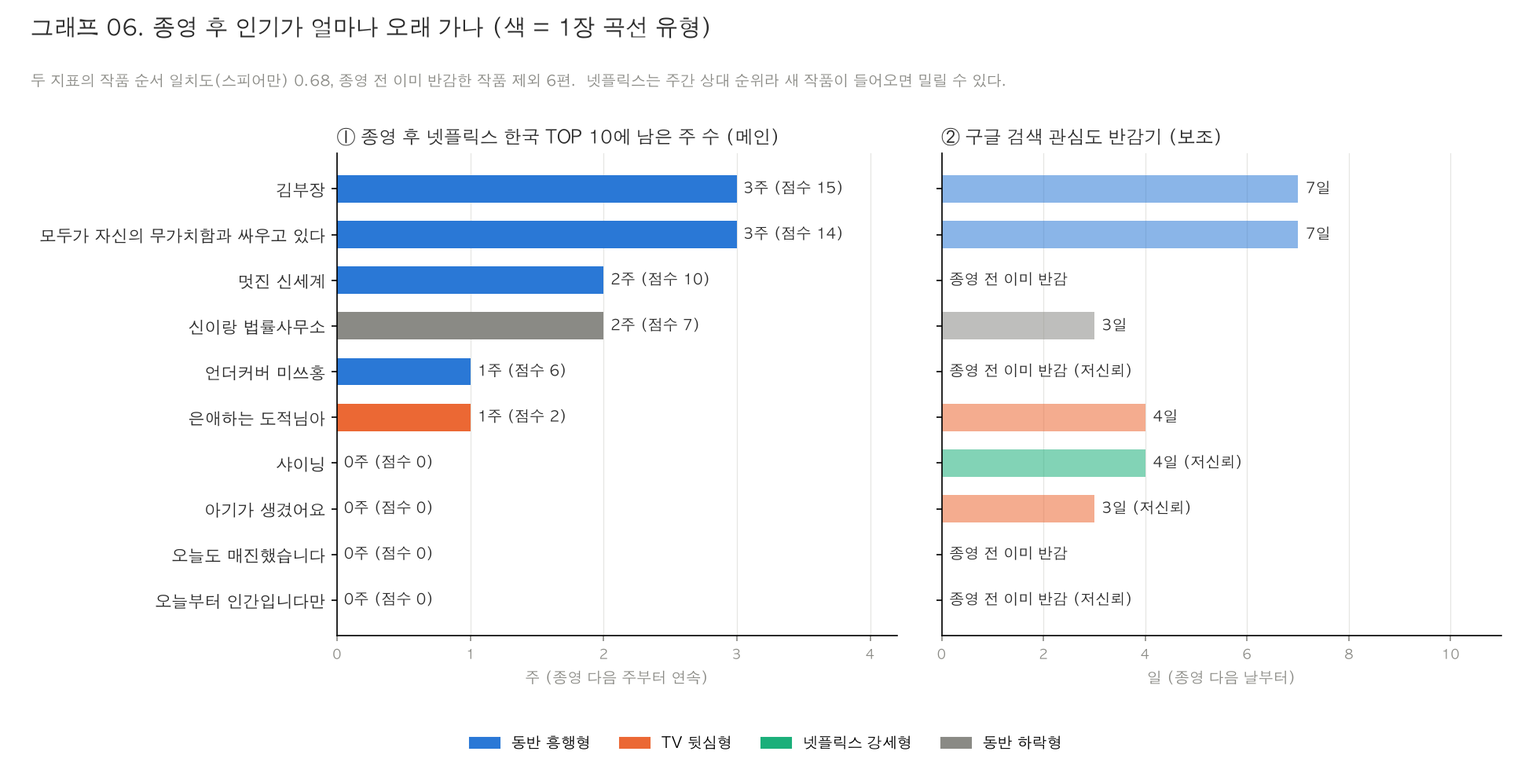
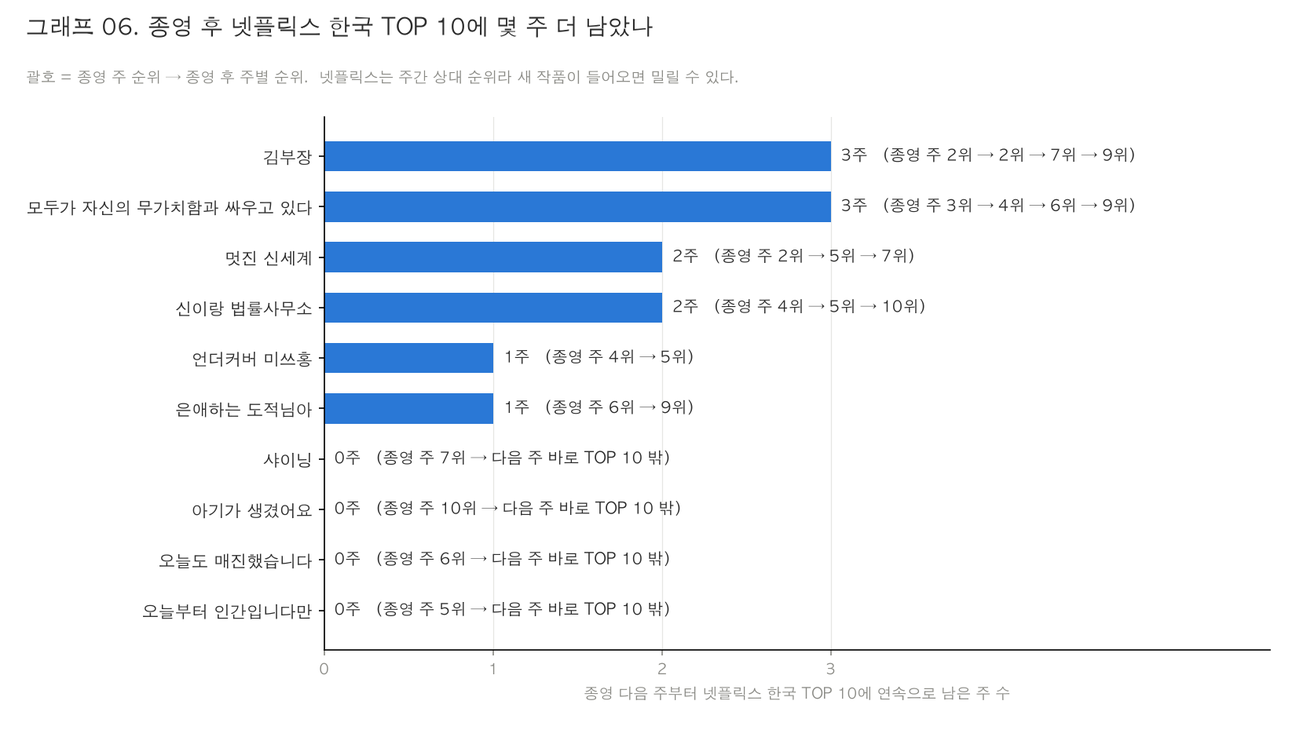
그래프 01 대표작 변경, 그래프 06 막대그래프로 변경, 그래프 12 추가, 표기 정리

diff --git a/src/ch3_netflix.py b/src/ch3_netflix.py
@@ -47,48 +47,35 @@ print(f"[교차 검증] 넷플릭스 잔존 vs 구글 반감기 순위 일치도
       f"(종영 전 반감 작품 제외, {len(both)}편)")
 res.to_csv("data/processed/ch3_netflix.csv", index=False)
 
-# ---------- 그래프 06: 넷플릭스 잔존(메인) | 구글 반감기(보조), 같은 작품 순서 ----------
-COLORS = {"동반 흥행형": "#2a78d6", "TV 뒷심형": "#eb6834", "넷플릭스 강세형": "#1baf7a", "동반 하락형": "#8a8a85"}
-INK, MUTED = "#2b2b2b", "#8a8a85"
-order = res.iloc[::-1]                                      # 위에서부터 오래 남은 순
-fig, (a1, a2) = plt.subplots(1, 2, figsize=(13, 6.5), sharey=True, gridspec_kw={"wspace": 0.08})
+# ---------- 그래프 06: 종영 후 넷플릭스 한국 TOP 10에 남은 주 수 ----------
+INK, MUTED, BAR = "#2b2b2b", "#8a8a85", "#2a78d6"
+order = res.iloc[::-1]                                      # 그림에서 위쪽 = 오래 남은 작품
+fig, ax = plt.subplots(figsize=(11, 6.2))
 y = range(len(order))
-a1.barh(y, order["종영 후 잔존(주)"], color=order["quadrant"].map(COLORS), height=0.6)
+ax.barh(y, order["종영 후 잔존(주)"], color=BAR, height=0.6)
 for i, (_, r) in zip(y, order.iterrows()):
-    a1.text(r["종영 후 잔존(주)"] + 0.05, i, f"{r['종영 후 잔존(주)']}주 (점수 {r['잔존 점수']})",
-            va="center", fontsize=9, color=INK)
-a1.set_yticks(list(y), order["title"], fontsize=10, color=INK)
-a1.set_xlim(0, res["종영 후 잔존(주)"].max() + 1.2)
-a1.set_xticks(range(0, int(res["종영 후 잔존(주)"].max()) + 2))
-a1.set_title("① 종영 후 넷플릭스 한국 TOP 10에 남은 주 수 (메인)", loc="left", fontsize=11, color=INK)
-a1.set_xlabel("주 (종영 다음 주부터 연속)", fontsize=9, color=MUTED)
-
-gv = order["반감기(일)"].where(~order["종영 전 반감"])
-a2.barh(y, gv.fillna(0), color=order["quadrant"].map(COLORS), height=0.6, alpha=0.55)
-for i, (_, r) in zip(y, order.iterrows()):
-    if r["종영 전 반감"]:
-        txt = "종영 전 이미 반감"
+    title, last = r["title"], int(last_week[r["title"]])
+    ranks = nf[nf["title"] == title].set_index("week_no")["weekly_rank"]
+    fin = ranks.get(last)
+    fin_txt = f"종영 주 {int(fin)}위" if pd.notna(fin) else "종영 주 TOP 10 밖"
+    after = [f"{int(ranks[last + k])}위" for k in range(1, r["종영 후 잔존(주)"] + 1)]
+    if after:
+        txt = f"{r['종영 후 잔존(주)']}주   ({fin_txt} → " + " → ".join(after) + ")"
     else:
-        txt = f"{int(r['반감기(일)'])}일"
-    if r["저신뢰"]:
-        txt += " (저신뢰)"
-    a2.text((0 if r["종영 전 반감"] else r["반감기(일)"]) + 0.15, i, txt, va="center", fontsize=9, color=INK)
-a2.set_xlim(0, res["반감기(일)"].max() + 4)
-a2.set_title("② 구글 검색 관심도 반감기 (보조)", loc="left", fontsize=11, color=INK)
-a2.set_xlabel("일 (종영 다음 날부터)", fontsize=9, color=MUTED)
-
-for ax in (a1, a2):
-    ax.tick_params(axis="x", labelsize=8, colors=MUTED)
-    ax.grid(axis="x", color="#e6e6e3", lw=0.6)
-    ax.set_axisbelow(True)
-    for sp in ("top", "right"):
-        ax.spines[sp].set_visible(False)
-handles = [plt.Rectangle((0, 0), 1, 1, color=c) for c in COLORS.values()]
-fig.legend(handles, COLORS.keys(), loc="lower center", ncol=4, frameon=False, fontsize=9, bbox_to_anchor=(0.5, 0.0))
-fig.suptitle("그래프 06. 종영 후 인기가 얼마나 오래 가나 (색 = 1장 곡선 유형)", x=0.02, ha="left", fontsize=14, color=INK)
-fig.text(0.02, 0.905, f"두 지표의 작품 순서 일치도(스피어만) {rho:.2f}, 종영 전 이미 반감한 작품 제외 {len(both)}편.  "
-         "넷플릭스는 주간 상대 순위라 새 작품이 들어오면 밀릴 수 있다.",
+        txt = f"0주   ({fin_txt} → 다음 주 바로 TOP 10 밖)"
+    ax.text(r["종영 후 잔존(주)"] + 0.06, i, txt, va="center", fontsize=9.5, color=INK)
+ax.set_yticks(list(y), order["title"], fontsize=10, color=INK)
+ax.set_xlim(0, res["종영 후 잔존(주)"].max() + 2.6)
+ax.set_xticks(range(0, int(res["종영 후 잔존(주)"].max()) + 1))
+ax.set_xlabel("종영 다음 주부터 넷플릭스 한국 TOP 10에 연속으로 남은 주 수", fontsize=9, color=MUTED)
+ax.tick_params(axis="x", labelsize=9, colors=MUTED)
+ax.grid(axis="x", color="#e6e6e3", lw=0.6)
+ax.set_axisbelow(True)
+for sp in ("top", "right"):
+    ax.spines[sp].set_visible(False)
+fig.suptitle("그래프 06. 종영 후 넷플릭스 한국 TOP 10에 몇 주 더 남았나", x=0.02, ha="left", fontsize=14, color=INK)
+fig.text(0.02, 0.905, "괄호 = 종영 주 순위 → 종영 후 주별 순위.  넷플릭스는 주간 상대 순위라 새 작품이 들어오면 밀릴 수 있다.",
          fontsize=9, color=MUTED, va="top")
-fig.subplots_adjust(top=0.80, bottom=0.17, left=0.22, right=0.98)
+fig.subplots_adjust(top=0.84, bottom=0.11, left=0.25, right=0.98)
 fig.savefig("images/06_after_finale.png", dpi=150)
 print("\n저장: images/06_after_finale.png")

diff --git a/src/graph12_gap_weekly.py b/src/graph12_gap_weekly.py
@@ -1,0 +1,52 @@
+"""그래프 12: 2장 보완 — 작품별 주간 시청률과 주간 화제성(라코이 버즈)
+그래프 03의 순위 뒤에 있는 실제 흐름을 작품마다 보여 준다. 먼저 ch1_curves.py, ch2_gap.py를 실행해 둘 것"""
+import os
+import matplotlib.pyplot as plt
+import pandas as pd
+
+plt.rcParams["font.family"] = "AppleGothic"
+plt.rcParams["axes.unicode_minus"] = False
+os.makedirs("images", exist_ok=True)
+
+tv = pd.read_csv("data/processed/tv_weekly.csv")
+rc = pd.read_csv("data/processed/racoi_weekly.csv")
+gap = pd.read_csv("data/processed/ch2_gap.csv", index_col=0).sort_values("시청률")   # 시청률 1위부터
+
+TV_C, BUZZ_C, INK, MUTED, UP, DOWN = "#2a78d6", "#9fd8bf", "#2b2b2b", "#8a8a85", "#2a78d6", "#eb6834"
+fig, axes = plt.subplots(2, 5, figsize=(17, 7.6))
+for ax, (title, g) in zip(axes.flat, gap.iterrows()):
+    b = rc[rc["title"] == title].set_index("week_no")["buzz"]
+    t = tv[tv["title"] == title].set_index("week_no")["rating"]
+    ax.bar(b.index, b.values, color=BUZZ_C, width=0.7, zorder=2)              # 막대 = 주간 화제성
+    top = b.max()
+    if top > 3 * b.median():                      # 한 주 급등(신이랑 6주차)이 다른 주를 납작하게 만들지 않게 축을 자름
+        top = b.nlargest(2).iloc[-1] * 1.6
+        w = b.idxmax()
+        ax.text(w, top * 0.97, f"{int(b.max()):,}↑\n댓글만 급등\n(4-2)", ha="center", va="top",
+                fontsize=7, color=INK, zorder=4, bbox=dict(fc="white", ec="none", alpha=0.85, pad=1))
+    ax.set_ylim(0, top * 1.25 if top == b.max() else top)
+    ax.ticklabel_format(axis="y", style="plain")
+    ax.tick_params(axis="y", labelsize=7, colors="#4f9c7a")
+    ax2 = ax.twinx()
+    ax2.plot(t.index, t.values, color=TV_C, lw=2.2, marker="o", ms=4, zorder=3)  # 선 = 주간 시청률
+    ax2.set_ylim(0, t.max() * 1.3)
+    ax2.tick_params(axis="y", labelsize=7, colors=TV_C)
+    ax.set_xticks(range(1, int(max(b.index.max(), t.index.max())) + 1))
+    ax.tick_params(axis="x", labelsize=7, colors=MUTED)
+    for a in (ax, ax2):
+        a.spines["top"].set_visible(False)
+    k = int(g["갭"])
+    color = UP if k >= 3 else DOWN if k <= -3 else INK
+    name = title if len(title) <= 10 else title[:9] + "…"
+    ax.set_title(f"{name}\n시청률 {int(g['시청률'])}위 · 화제성 {int(g['라코이_버즈'])}위 (갭 {k:+d})",
+                 fontsize=10, color=color, loc="left")
+fig.supxlabel("방영 주차", fontsize=9, color=MUTED)
+fig.suptitle("그래프 12. 작품별 주간 시청률(선)과 주간 화제성(막대) — 그래프 03 순위의 실제 흐름",
+             x=0.01, ha="left", fontsize=14, color=INK)
+fig.text(0.01, 0.925, "막대 = 라코이 시청자 버즈(게시글+댓글, 건, 왼쪽 축)  ·  선 = 주간 평균 시청률(%, 오른쪽 축)  ·  "
+         "축 눈금은 작품마다 다르므로 칸끼리는 크기가 아니라 모양을 비교한다(신이랑 6주차 막대는 위가 잘림).  순위는 시청률 = 회차 평균, 화제성 = 방영 주 중앙값.\n"
+         "파란 제목 = 시청률보다 화제성 순위가 3계단 이상 높은 작품, 주황 제목 = 3계단 이상 낮은 작품.",
+         fontsize=9, color=MUTED, va="top")
+fig.subplots_adjust(top=0.80, bottom=0.08, left=0.03, right=0.97, hspace=0.62, wspace=0.42)
+fig.savefig("images/12_gap_weekly.png", dpi=150)
+print("저장: images/12_gap_weekly.png")

diff --git a/src/ch3_halflife.py b/src/ch3_halflife.py
@@ -100,7 +100,7 @@ for ax, (_, r) in zip(axes.flat, order.iterrows()):
         ev = (pd.Timestamp(EVENTS[r["title"]][0]) - d["last_air"]).days
         ax.axvspan(ev - 0.5, ev + 1.5, color="#eb6834", alpha=0.15, lw=0)
         ax.text(ev + 3, 115, EVENTS[r["title"]][1], fontsize=8, color=MUTED, va="center")
-    title = r["title"] + (" (저신뢰)" if r["저신뢰"] else "")
+    title = r["title"] + (" *" if r["저신뢰"] else "")
     ax.set_title(f"{title}\n{r['quadrant']}", fontsize=10, color=INK, loc="left")
     ax.set_xlim(-30, 60)
     ax.set_ylim(0, 125)
@@ -115,8 +115,9 @@ for ax in axes[:, 0]:
     ax.set_ylabel("검색 관심도\n(방영 중 최고점=100)", fontsize=9, color=INK)
 fig.suptitle("그래프 05. 종영 후 검색 관심도가 식는 속도 (구글 트렌드, 대한민국)", x=0.01, ha="left", fontsize=14, color=INK)
 fig.text(0.01, 0.935, "점선(가로): 최고점의 50%  ·  점선(세로): 종영일  ·  흰 원: 반감기(7일 이동평균이 최고점의 50% 아래로 3일 연속 내려간 첫날)  ·  최고점 구간: 1화 ~ 최종화 3일 뒤\n"
-         "검색 관심이 줄어드는 속도이며, 실제 시청자가 절반으로 줄어든 시점을 뜻하지 않는다. 일별 검색량의 요일 변동을 없애려고 7일 이동평균(가운데 정렬)을 썼다.",
+         "검색 관심이 줄어드는 속도이며, 실제 시청자가 절반으로 줄어든 시점을 뜻하지 않는다. 일별 검색량의 요일 변동을 없애려고 7일 이동평균(가운데 정렬)을 썼다.\n"
+         "* 구글 검색량이 적어 방영 중 0으로 표시된 날이 40%를 넘는 작품. 곡선 모양은 참고용으로 본다.",
          fontsize=9, color=MUTED, va="top")
-fig.subplots_adjust(top=0.80, bottom=0.08, left=0.07, right=0.99, hspace=0.55, wspace=0.12)
+fig.subplots_adjust(top=0.78, bottom=0.08, left=0.07, right=0.99, hspace=0.55, wspace=0.12)
 fig.savefig("images/05_decay_curves.png", dpi=150)
 print("저장: images/05_decay_curves.png")

diff --git a/src/graph07_trend_weekday.py b/src/graph07_trend_weekday.py
@@ -39,7 +39,7 @@ for t in dramas.index:
     ad = set(ratings.loc[ratings["title"] == t, "air_date"])
     on, off = r[r.index.isin(ad)].mean(), r[~r.index.isin(ad)].mean()
     low = (r == 0).mean() > 0.4                                    # 방영 중 0인 날 40% 초과 = 저신뢰
-    rows.append((t + (" (저신뢰)" if low else ""), on / off if off > 0 else float("nan")))
+    rows.append((t + (" *" if low else ""), on / off if off > 0 else float("nan")))
 eff = pd.DataFrame(rows, columns=["title", "배수"]).sort_values("배수")
 
 print(f"[{REP}] 방영 기간 평균 {run.mean():.1f}, 이동평균에서 벗어난 정도(표준편차) {resid.std():.1f}")
@@ -83,7 +83,7 @@ ax3.tick_params(axis="y", labelsize=9, colors=INK)
 fig.suptitle("그래프 07. 검색 관심도의 트렌드·주간 반복·노이즈 (구글 트렌드, 대한민국)", x=0.02, ha="left", fontsize=14, color=INK)
 fig.text(0.02, 0.945,
          f"트렌드 = 7일 이동평균(가운데 정렬)  ·  주간 반복 = 방송 요일마다 오르는 패턴  ·  노이즈 = 이동평균에서 벗어난 정도(표준편차 {resid.std():.1f})\n"
-         "검색 관심도는 구글 트렌드 상대값(작품별 최고 날 = 100)이며, 실제 검색 횟수가 아니다.",
+         "검색 관심도는 구글 트렌드 상대값(작품별 최고 날 = 100)이며, 실제 검색 횟수가 아니다.  * 구글 검색량이 적어 방영 중 0인 날이 40%를 넘는 작품(참고용).",
          fontsize=9, color=MUTED, va="top")
 fig.subplots_adjust(top=0.86, bottom=0.07, left=0.08, right=0.97)
 fig.savefig("images/07_trend_weekday.png", dpi=150)

diff --git a/src/graph01_triple.py b/src/graph01_triple.py
@@ -7,7 +7,7 @@ plt.rcParams["font.family"] = "AppleGothic"
 plt.rcParams["axes.unicode_minus"] = False
 os.makedirs("images", exist_ok=True)
 
-REP = "은애하는 도적님아"          # 대표작 (I1의 TV 뒷심형 사례)
+REP = "멋진 신세계"                # 대표작 (I1 사례: 넷플릭스 → 화제성 → TV 순으로 정점)
 
 dramas = pd.read_csv("data/dramas.csv", parse_dates=["first_air", "last_air"]).set_index("title")
 tv = pd.read_csv("data/processed/tv_weekly.csv")

diff --git a/REPORT.md b/REPORT.md
@@ -75,7 +75,7 @@
 | 시청률 | 결측 0건. 닐슨코리아 공식 TOP 자료와 대조한 104회차 모두 일치. 나머지 26회차는 공식 자료에 없어 회차 단위로는 대조하지 못했고, 전 회차가 들어가는 라코이의 닐슨 주간 시청률(65주) 대조로 간접 확인했다(차이 평균 0.14%p. 라코이는 주 단위로 집계한 값이고 이 분석은 회차 시청률을 주별로 단순 평균했기 때문에 생기는 차이로 보인다) |
 | 라코이 | 10편 모두 1주차부터 마지막 방영 주까지 빠짐없이 있음. 오늘부터 인간입니다만의 빈 주 1개는 설 연휴 결방 주 |
 | 넷플릭스 | 10편 모두 1주 이상 TOP 10 진입. 금·토 첫 방송 작품은 1주차 공개일이 1~2일뿐이라 1주차 순위가 불리 |
-| 구글 | 10편 모두 일별 값 존재. 언더커버 미쓰홍의 중복 주제는 전 기간 0(검색이 나뉘어 잡히지 않음). 방영 중 0인 날이 40%를 넘는 저신뢰 작품 4편 |
+| 구글 | 10편 모두 일별 값 존재. 언더커버 미쓰홍의 중복 주제는 전 기간 0(검색이 나뉘어 잡히지 않음). 방영 중 0인 날이 40%를 넘는 검색량 적은 작품 4편(이하 \* 표시) |
 | 펀덱스 | 32주 중 21주 확보. 1·4·10·12·15·16·17·21·24·31·32주차는 순위 기사를 찾지 못함 |
 | 네이버 | 결측 0건. 일상어 제목 4편은 방영 전·종영 후에도 값이 남음(4-3) |
 
@@ -88,7 +88,7 @@
 | 라코이 첫 주·마지막 주 | 주 중간에 시작·종영해 반응이 덜 쌓임 | 그대로 두되, 작품 간 비교는 방영 주 **중앙값**으로 해 주 수 차이를 줄임 |
 | 라코이 한 주 급등 | 한 주가 다른 주의 수 배 | 기사로 원인 확인(아래 표). 작품 간 비교는 주 **중앙값**으로 해 한 주가 전체를 좌우하지 않게 하고, 평균으로 계산한 결과는 민감도로 함께 제시 |
 | 구글 `<1` 표기 | 0보다 크지만 1 미만 | 0.5로 바꿈 |
-| 구글 방영 중 0인 날 40% 초과 | 검색이 기준보다 적은 날은 0으로 표시됨 | **저신뢰** 표시 (오늘부터 인간입니다만, 언더커버 미쓰홍, 아기가 생겼어요, 샤이닝) |
+| 구글 방영 중 0인 날 40% 초과 | 검색이 기준보다 적은 날은 0으로 표시됨 | **\*** 표시, 구글 기반 값은 참고용 (오늘부터 인간입니다만, 언더커버 미쓰홍, 아기가 생겼어요, 샤이닝) |
 | 방송과 무관해 보이는 하루짜리 급등 (구글) | 네이버 뉴스 기간 검색 + 같은 날 네이버 검색량 변화로 확인 | 아래 표 |
 
 | 급등 | 확인한 내용 | 판단 |
@@ -103,7 +103,7 @@
 처음에는 검색량을 화제성 지표로 쓰려 했다. 수집해 보니 두 검색 지표 모두 작품끼리 공정하게 비교하기 어려웠다.
 
 - **네이버 데이터랩 (검색어 방식):** 10편 모두 같은 규칙으로 검색어를 만들었지만, 시청률 0.8~2%인 샤이닝이 13%까지 오른 언더커버 미쓰홍보다 검색량이 50배 넘게 나왔다. 제목이 독특한 작품은 제목만 검색해 규칙에 잘 안 잡히고, 흔한 단어 제목은 "샤이닝 드라마"처럼 덧붙여 검색해 잘 잡히기 때문이다.
-- **구글 트렌드 (주제 방식):** 검색어 문제는 없지만, 검색이 적은 날을 0으로 표시해 10편 중 4편이 방영 중 절반 가까운 날이 0이었다(저신뢰). 한국 검색 점유율이 낮고 분류 방식도 공개되지 않는다.
+- **구글 트렌드 (주제 방식):** 검색어 문제는 없지만, 검색이 적은 날을 0으로 표시해 10편 중 4편이 방영 중 절반 가까운 날이 0이었다(검색량 적음). 한국 검색 점유율이 낮고 분류 방식도 공개되지 않는다.
 
 그래서 화제성 메인 지표를 **라코이 시청자 버즈**로 바꾸었다. 프로그램 단위로 실제 반응 건수를 세기 때문에 검색어 문제와 0값 문제가 없고, 공공기관이 같은 방식으로 모든 채널을 집계한다. 다만 **방영 주에만** 집계되므로, 종영 후 분석(3장)은 넷플릭스 한국 TOP 10 잔존을 메인으로, 구글 반감기를 보조로 썼다. 구글 일별 데이터는 일별 흐름(5-1)에도 썼다.
 
@@ -210,6 +210,10 @@
 - 시청률보다 화제성이 높은 쪽(**샤이닝 +4, 모두가 자신의 무가치함과 싸우고 있다 +3**)은 중앙값·평균 어느 기준에서도 같았다. 오늘부터 인간입니다만은 +3(중앙값)·+2(평균)였다.
 - 반대쪽은 기준에 따라 달랐다. 신이랑 법률사무소는 중앙값 기준 −4지만 평균 기준 0(6주차 댓글 급등 때문), 언더커버 미쓰홍은 −2·−4, 은애하는 도적님아는 −2·−3이었다. "화제성이 낮다"는 결론은 "높다"보다 약하다.
 
+![그래프 12](images/12_gap_weekly.png)
+
+그래프 12는 그래프 03의 순위 뒤에 있는 실제 흐름을 작품마다 보여 준다(막대 = 주간 화제성, 선 = 주간 시청률). 시청률보다 화제성이 높은 모두가 자신의 무가치함과 싸우고 있다·샤이닝은 화제성 막대가 시청률보다 일찍 크게 올랐고, 신이랑 법률사무소는 6주차 한 주(댓글만 급등)를 빼면 화제성이 방영 내내 낮은 수준이었다.
+
 #### Q2-B. 갭이 큰 작품은 어떤 특징이 있을까?
 
 ![그래프 11](images/11_gap_features.png)
@@ -237,6 +241,8 @@
 
 ![그래프 06](images/06_after_finale.png)
 
+그래프 06은 작품마다 종영 후 넷플릭스 한국 TOP 10에 몇 주 더 남았는지와, 종영 주부터 빠질 때까지의 순위 변화를 보여 준다.
+
 **메인 — 넷플릭스 한국 TOP 10 잔존:** 최종화가 들어 있는 주의 다음 주부터 연속으로 TOP 10에 남은 주 수. 주 수가 같으면 잔존 점수(남은 주마다 11 − 순위를 더한 값)로 순서를 가렸다.
 
 **보조 — 구글 검색 관심도 반감기:** 최종화 다음 날부터, 7일 이동평균(가운데 정렬)이 최고점(1화 ~ 최종화 3일 뒤)의 50% 아래로 내려간 뒤 3일 이상 연속 유지되는 첫날까지의 일수. 종영일에 이미 최고점의 50% 아래였던 작품은 "종영 전 반감"으로 따로 표시했다.
@@ -247,12 +253,14 @@
 | 모두가 자신의 무가치함과 싸우고 있다 | 동반 흥행형 | 3 | **3주** | 14 | 7일 |
 | 멋진 신세계 | 동반 흥행형 | 2 | 2주 | 10 | 종영 전 반감 |
 | 신이랑 법률사무소 | 동반 하락형 | 4 | 2주 | 7 | 3일 |
-| 언더커버 미쓰홍 | 동반 흥행형 | 4 | 1주 | 6 | 종영 전 반감 (저신뢰) |
+| 언더커버 미쓰홍 | 동반 흥행형 | 4 | 1주 | 6 | 종영 전 반감 \* |
 | 은애하는 도적님아 | TV 뒷심형 | 6 | 1주 | 2 | 4일 |
-| 샤이닝 | 넷플릭스 강세형 | 7 | 0주 | 0 | 4일 (저신뢰) |
-| 아기가 생겼어요 | TV 뒷심형 | 10 | 0주 | 0 | 3일 (저신뢰) |
+| 샤이닝 | 넷플릭스 강세형 | 7 | 0주 | 0 | 4일 \* |
+| 아기가 생겼어요 | TV 뒷심형 | 10 | 0주 | 0 | 3일 \* |
 | 오늘도 매진했습니다 | TV 뒷심형 | 6 | 0주 | 0 | 종영 전 반감 |
-| 오늘부터 인간입니다만 | TV 뒷심형 | 5 | 0주 | 0 | 종영 전 반감 (저신뢰) |
+| 오늘부터 인간입니다만 | TV 뒷심형 | 5 | 0주 | 0 | 종영 전 반감 \* |
+
+\* 구글 검색량이 적어 방영 중 0인 날이 40%를 넘는 작품(4-2). 구글 반감기는 참고용이다.
 
 넷플릭스 잔존과 구글 반감기의 순서 일치도는 0.68(종영 전 반감 작품 제외 6편)이었다. 서로 다른 두 출처가 "어느 작품이 종영 후 오래 갔는지"에 대해 비슷한 순서를 보였다.
 
@@ -311,20 +319,20 @@
 | 작품 | 주간 반복 세기 | 가장 높은 요일 (효과) | 방송 요일 |
 |---|---|---|---|
 | 은애하는 도적님아 | 0.89 | 일 (+43.4) | 토·일 |
-| 샤이닝 (저신뢰) | 0.84 | 토 (+35.6) | 금 |
+| 샤이닝 \* | 0.84 | 토 (+35.6) | 금 |
 | 모두가 자신의 무가치함과 싸우고 있다 | 0.84 | 일 (+30.8) | 토·일 |
-| 언더커버 미쓰홍 (저신뢰) | 0.75 | 일 (+32.6) | 토·일 |
+| 언더커버 미쓰홍 \* | 0.75 | 일 (+32.6) | 토·일 |
 | 김부장 | 0.74 | 토 (+35.2) | 금·토 |
-| 오늘부터 인간입니다만 (저신뢰) | 0.72 | 토 (+25.8) | 금·토 |
+| 오늘부터 인간입니다만 \* | 0.72 | 토 (+25.8) | 금·토 |
 | 신이랑 법률사무소 | 0.67 | 토 (+24.1) | 금·토 |
 | 오늘도 매진했습니다 | 0.67 | 수 (+39.5) | 수·목 |
-| 아기가 생겼어요 (저신뢰) | 0.43 | 일 (+26.8) | 토·일 |
+| 아기가 생겼어요 \* | 0.43 | 일 (+26.8) | 토·일 |
 | 멋진 신세계 | 0.32 | 일 (+16.0) | 금·토 |
 
-- (저신뢰) 4편은 방영 중 검색량 0인 날이 40%를 넘어(4-2), 주간 반복 세기와 요일 효과는 참고용이다.
+- \* 표시 4편은 구글 검색량이 적어 방영 중 0인 날이 40%를 넘으므로(4-2), 주간 반복 세기와 요일 효과는 참고용이다.
 - 10편 모두 가장 높은 요일이 **방송 요일이거나 방송 다음 날**이었다. 5-1의 "방송 요일 주간 반복"을 수치로 확인한 결과다.
 - 금요일 밤에 방송하는 샤이닝·김부장은 **토요일**이 가장 높았다. 늦은 밤 방송이라 검색이 다음 날로 넘어가는 것으로 보인다.
-- 멋진 신세계(0.32)는 가장 낮았다. 비방송일인 6/14 급등(4-2)처럼 요일과 무관한 이슈가 많았기 때문이다. 아기가 생겼어요(0.43)는 0인 날이 많은 저신뢰 작품이라 낮게 나왔을 수 있다.
+- 멋진 신세계(0.32)는 가장 낮았다. 비방송일인 6/14 급등(4-2)처럼 요일과 무관한 이슈가 많았기 때문이다. 아기가 생겼어요(0.43)는 0인 날이 많은 작품(\*)이라 낮게 나왔을 수 있다.
 
 #### B2. 넷플릭스 오리지널 vs TV 동시 방영작
 
@@ -355,7 +363,7 @@
 ### I1. 넷플릭스 상대 순위의 정점이 TV 시청률 정점보다 먼저 왔다 (Q1 · 그래프 01, 02)
 
 **관찰(Fact)**
-그래프 01에서 은애하는 도적님아는 세 지표의 정점이 모두 달랐다. 넷플릭스 한국 순위는 2주차(3위), 라코이 화제성은 5주차(주 5,644건), TV 시청률은 마지막 8주차(7.65%)가 최고였다. 넷플릭스는 6주차에 10위까지 내려갔다가 마지막 주에 6위로 반등했다.
+그래프 01에서 멋진 신세계는 세 지표의 정점이 모두 달랐다. 넷플릭스 한국 순위는 1주차(1위), 라코이 화제성은 5주차(주 14,654건), TV 시청률은 마지막 7주차(11.25%)가 최고였다. TV 시청률은 4.75%에서 시작해 끝까지 올랐고, 넷플릭스는 방영 내내 1~3위를 지키다 종영 후 5위·7위로 내려갔다.
 10편 전체로 보면(그래프 02) 이번 10편 중 8편은 넷플릭스 한국 순위가 가장 높았던 주가 TV 시청률이 가장 높았던 주보다 빨랐다(중앙값 3.5주 앞섬). 넷플릭스 자료는 시청 시간이 아니라 TOP 10 안의 **상대 순위**이므로, 여기서 넷플릭스의 "정점"은 시청자가 가장 많았던 때가 아니라 다른 작품보다 가장 앞섰던 때다. 반례는 2편이다. 오늘도 매진했습니다는 두 정점이 같은 주였고, 샤이닝은 TV가 1주차 최고 뒤 하락하는 동안 넷플릭스는 3주차에 최고 순위였다.
 
 **원인(Why) — 가설**
@@ -416,7 +424,7 @@
 - **넷플릭스:** TOP 10 밖은 순위를 알 수 없다. 금·토 첫 방송 작품은 1주차에 공개일이 적어 순위가 불리하다. 상대 순위라 경쟁작 공개에 영향을 받는다(순위가 떨어진 24번 모두 새 작품이 위로 들어왔다, I1). 그래서 넷플릭스 순위 하락을 시청자 감소로 단정하지 않았다.
 - **보너스 비교(B2):** 오리지널과 동시 방영작은 공개 방식 외에도 장르·제작비·홍보가 달라, 차이를 공개 방식 하나로 설명할 수 없다.
 - **3장:** 1장 유형별 잔존 비교는 유형 판정에 넷플릭스 후반 순위가 들어가 독립적이지 않아 참고로만 썼고, 결론은 넷플릭스를 쓰지 않은 종영 전 지표로 냈다. 다만 종영 전 관심 유지와 작품 규모의 효과는 10편으로 구분할 수 없다(규모를 통제한 분석은 하지 않음).
-- **구글 검색:** 국내 검색 점유율이 낮고, 검색이 적은 날은 0으로 표시돼 저신뢰 작품 4편의 결과는 참고용이다. 반감기 일수는 계산 기준에 따라 크게 달라진다.
+- **구글 검색:** 국내 검색 점유율이 낮고, 검색이 적은 날은 0으로 표시돼 검색량 적은 작품 4편(\*)의 결과는 참고용이다. 반감기 일수는 계산 기준에 따라 크게 달라진다.
 - **펀덱스:** 32주 중 21주만 확보했고 주마다 공개된 순위 범위가 다르다. 5주 표본(13행)을 원문과 대조해 모두 일치했지만, 나머지 16주는 대조하지 않았다.
 - **유형 판정 기준(1.1배, 2계단)은 분석을 시작하기 위한 임시 기준이다.** 10편 중 5편은 기준에 따라 유형이 바뀐다.
 
@@ -429,7 +437,7 @@
 | 작품 선정 조건 정리 | 누락 방지 | 조건별로 작품 목록을 다시 대조. TOP 10 진입작만 고르면 선택 편향이 생긴다는 점을 직접 지적해 기준 수정 |
 | 시청률 옮겨 적기 (네이버 캡처 → CSV) | 시간 절감 | 닐슨코리아 공식 자료 104회차 대조(불일치 0건), 라코이 닐슨 주간 시청률 65주 대조(차이 평균 0.14%p) |
 | 네이버 검색어 점검 | 측정 문제 발견 | 작품마다 검색어 수가 다른 것을 직접 발견해 규칙 통일. 이후 일상어 제목 4편의 이상값을 AI가 발견 → "주제어 칸 오염" 가설을 재수집으로 확인했으나 값이 같아 **가설 기각** → 검색 방식 차이가 원인이라고 결론 |
-| 대체 지표 탐색 (구글 주제) | 측정 문제 해결 | 10편 모두 드라마 전용 주제가 있는지 직접 조회. 그러나 0값이 많은 저신뢰 작품이 4편이라는 점을 직접 지적해 메인에서 보조로 격하 |
+| 대체 지표 탐색 (구글 주제) | 측정 문제 해결 | 10편 모두 드라마 전용 주제가 있는지 직접 조회. 그러나 0값이 많은 작품이 4편이라는 점을 직접 지적해 메인에서 보조로 격하 |
 | 외부 검증 지표 탐색 (빅카인즈) | 교차 검증 | 은애하는 도적님아 22건(한 언론사 59%)으로 연예 매체가 거의 없어 **부적합 판단, 제외** |
 | 펀덱스 순위 수집 | 시간 절감 | 기사 제목의 주차로 날짜 재계산, 순위 번호가 빠진 주는 점유율 순으로 보정. 3·8·14·19·27주차 원문과 직접 대조해 13행 모두 일치. 비어 있던 26주차 김부장 점유율(17.38%)은 27주차 기사의 '지난주' 수치로 채움 |
 | 라코이 발견·수집 | 신뢰할 수 있는 화제성 지표 | 사이트에서 10편 등록 여부와 제공 항목을 직접 확인. AI의 자동 수집 시도는 막혀, 사이트가 제공하는 **기간별 Excel 다운로드**로 받음. 받은 파일의 주차 누락·결방 주를 점검 |
@@ -470,6 +478,7 @@ python src/ch3_netflix.py            # 3장 넷플릭스 잔존 + 그래프 06
 python src/ch3_prefinale.py          # 3장 종영 전 관심 vs 잔존 + 그래프 10
 python src/graph01_triple.py         # 그래프 01
 python src/graph07_trend_weekday.py  # 그래프 07
+python src/graph12_gap_weekly.py     # 그래프 12
 python src/bonus_decompose.py        # 보너스: 시계열 분해, 그래프 08
 python src/bonus_original.py         # 보너스: 오리지널 vs 동시 방영, 그래프 09
 ```

diff --git a/DATA.md b/DATA.md
@@ -62,7 +62,7 @@
 | batch2.xlsx | 은애하는 도적님아(기준), 신이랑 법률사무소, 모두가 자신의 무가치함과 싸우고 있다, 오늘도 매진했습니다, 멋진 신세계 |
 | batch3.xlsx | 은애하는 도적님아(기준), 김부장 |
 
-이 방식은 제목 종류에 따라 잡히는 검색 비율이 달라 메인 지표에서 제외하고 검증용으로만 썼다(REPORT 4-3). 구글 트렌드도 저신뢰 작품이 4편이라 화제성 메인 지표는 라코이로 정했다.
+이 방식은 제목 종류에 따라 잡히는 검색 비율이 달라 메인 지표에서 제외하고 검증용으로만 썼다(REPORT 4-3). 구글 트렌드도 검색량이 적어 0이 많은 작품이 4편이라 화제성 메인 지표는 라코이로 정했다.
 
 ### 1-3. 펀덱스 출처
 
